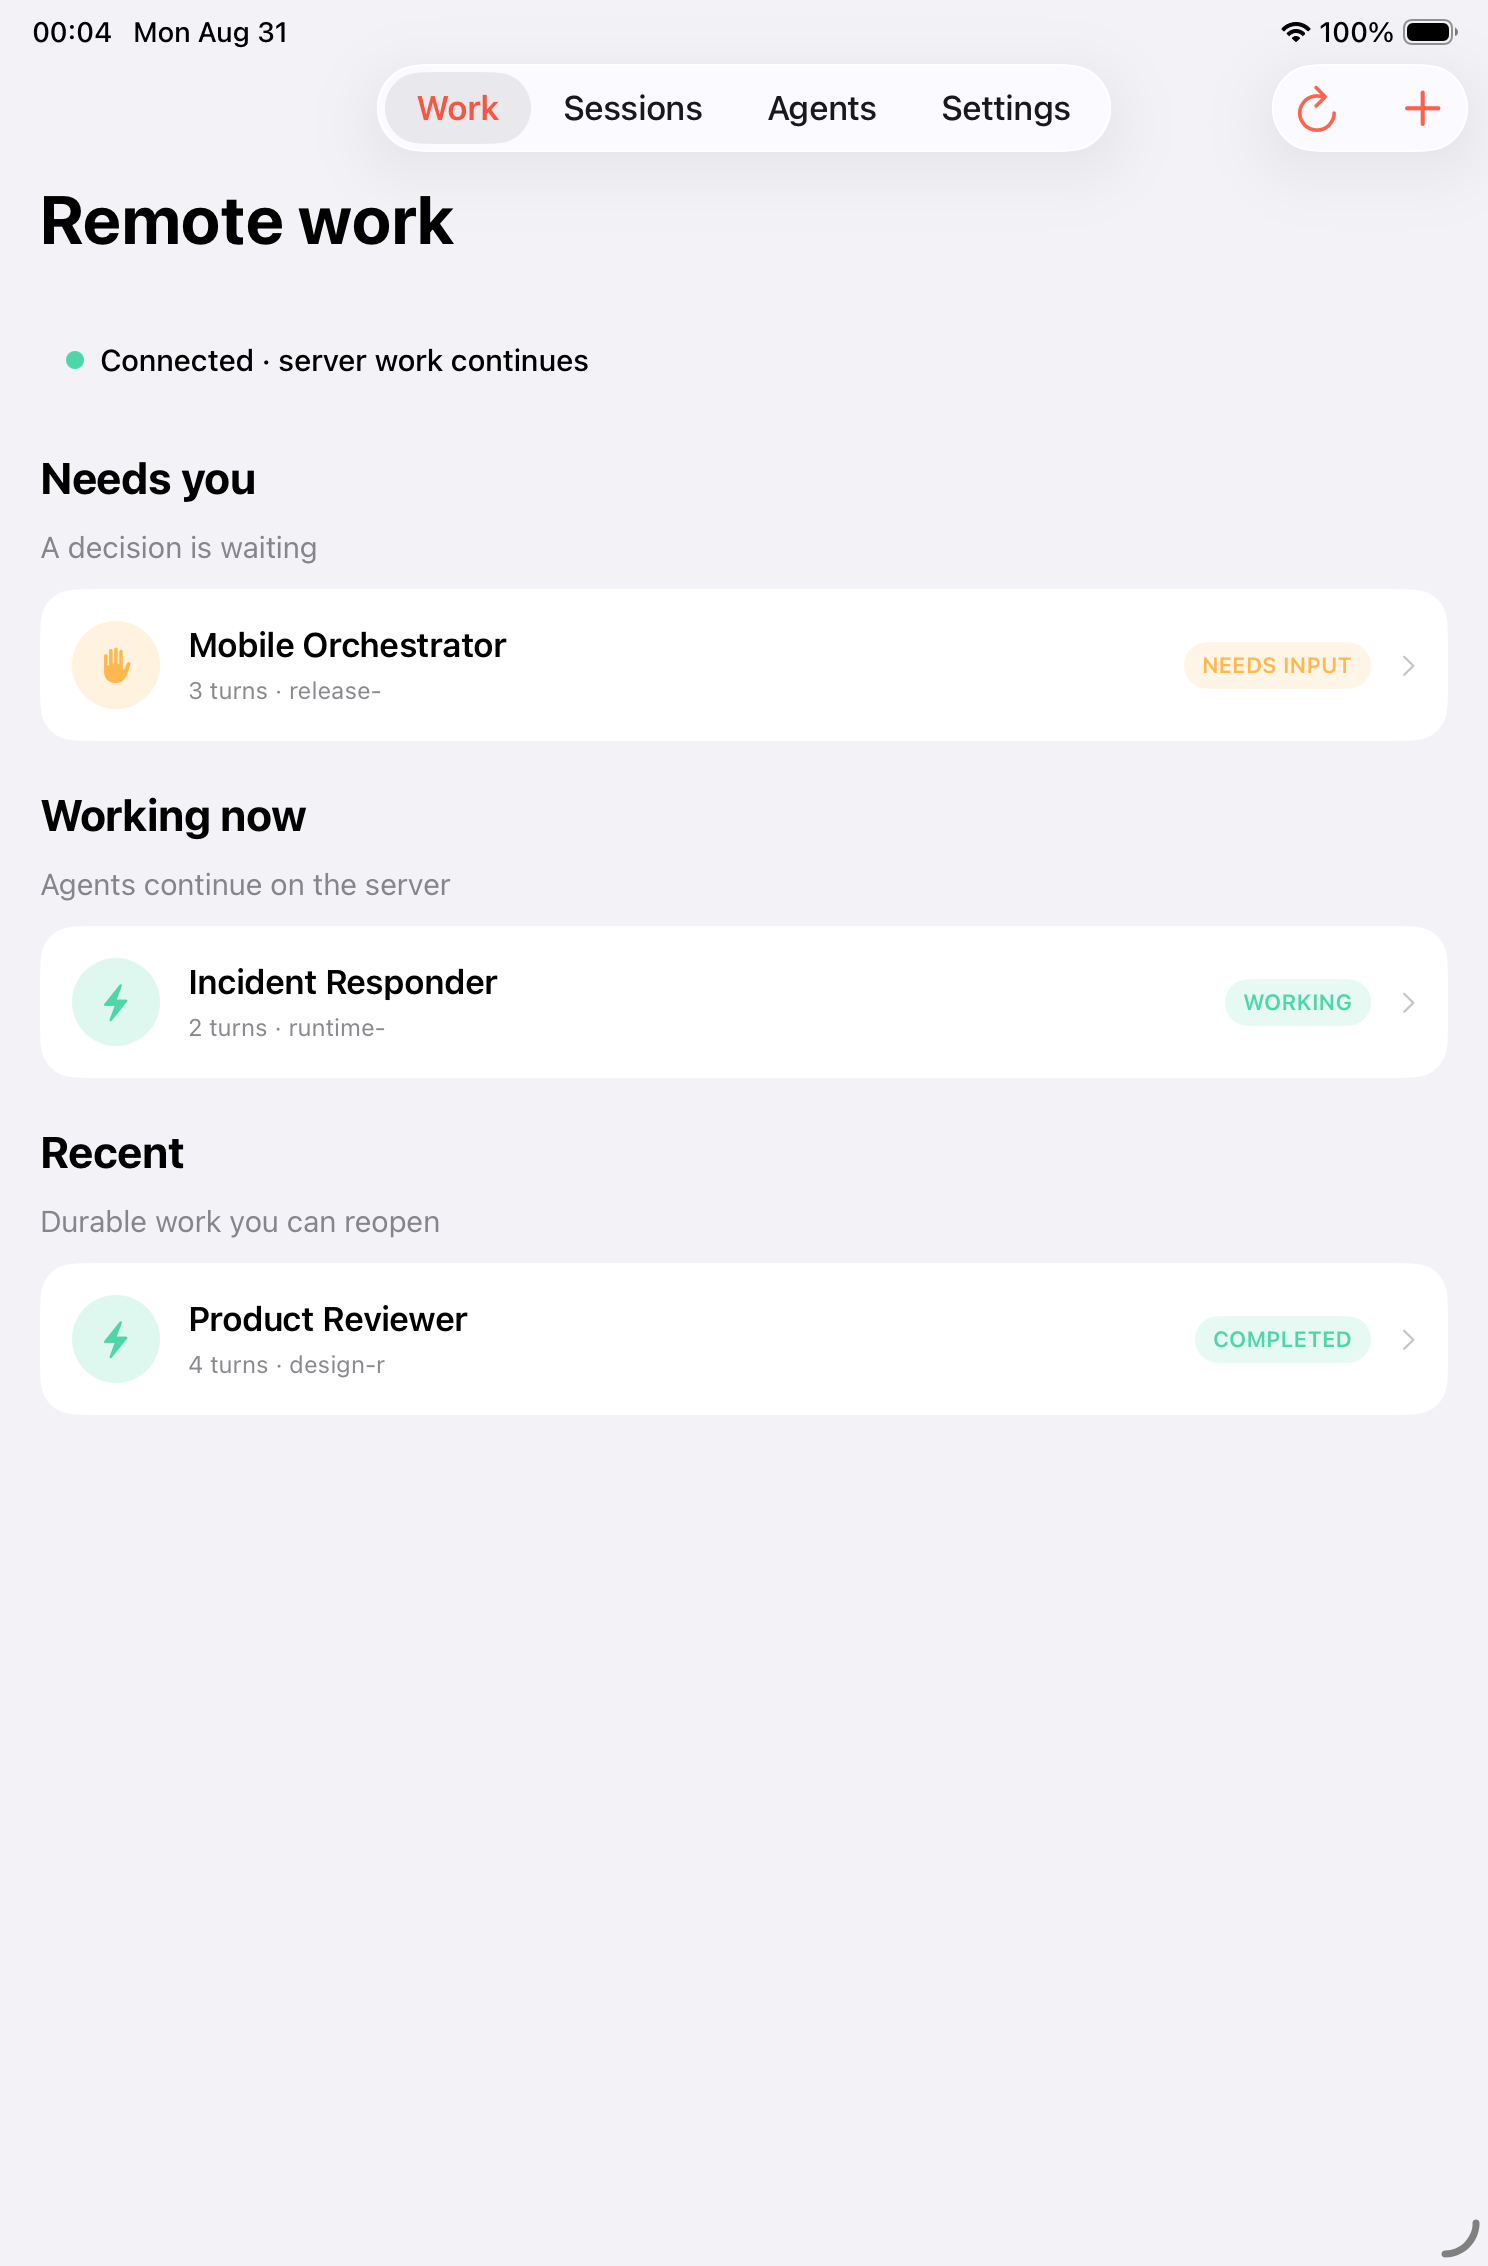
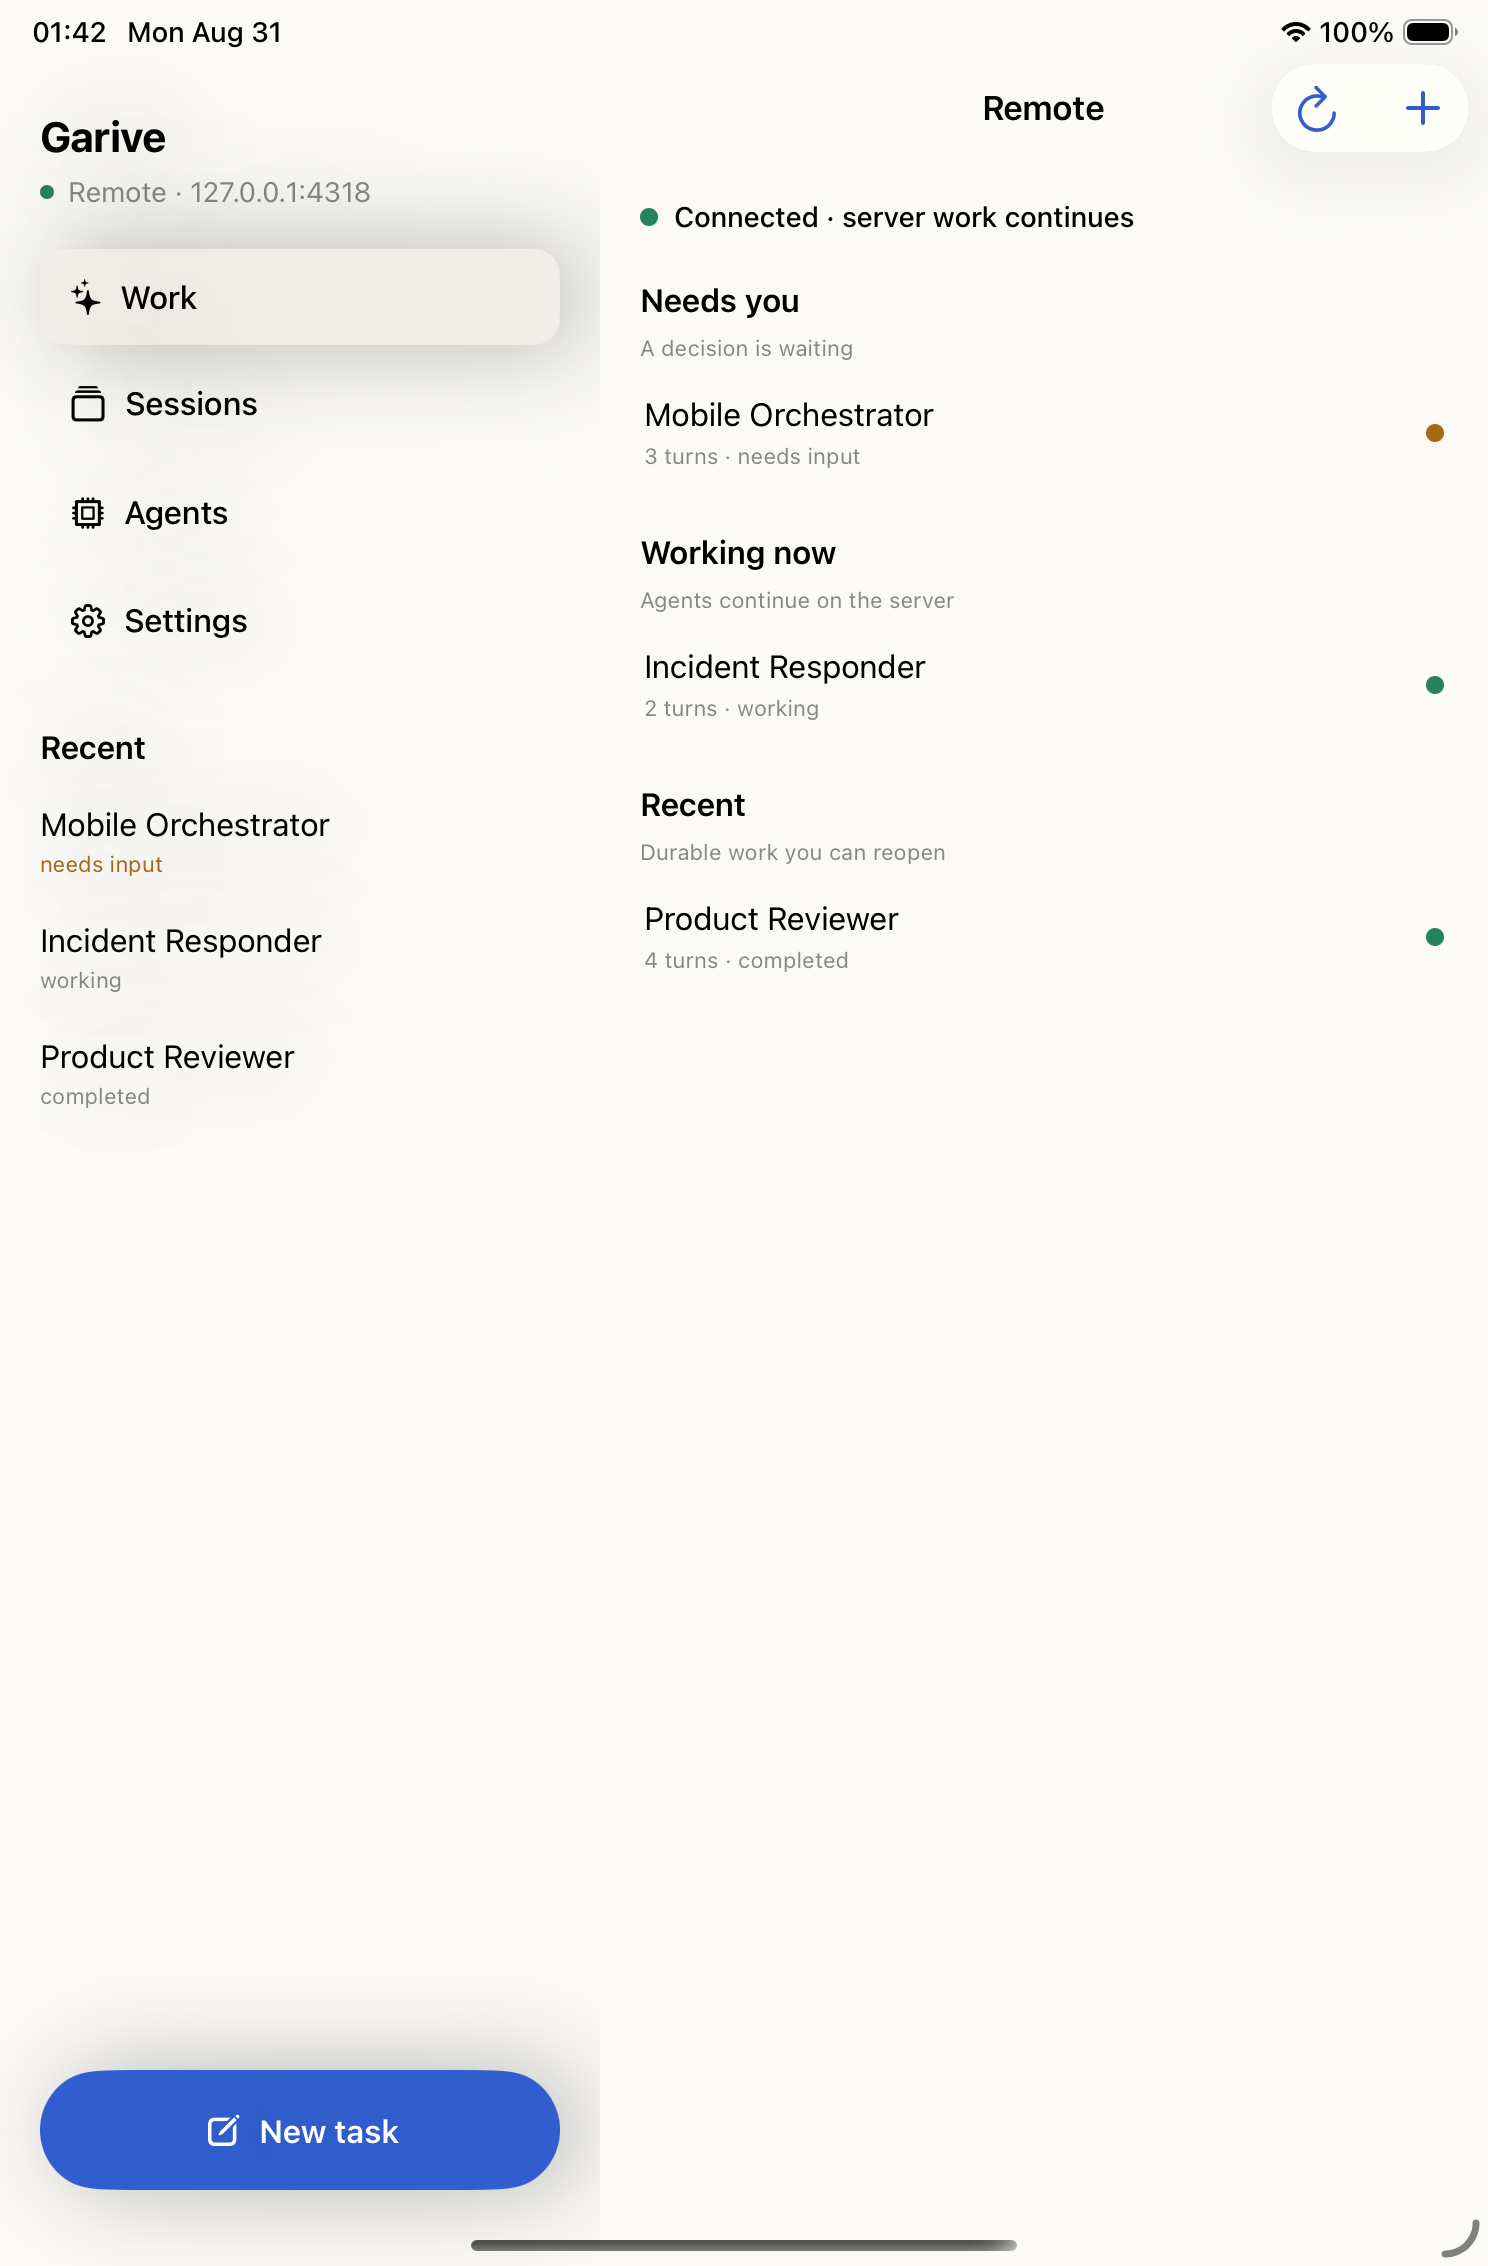
docs: capture private adaptive mobile layouts

diff --git a/spec/STATUS.md b/spec/STATUS.md
@@ -75,7 +75,7 @@ planned without reopening a narrower completed row.
 | A-DESKTOP-WA | Governed Workspaces and artifacts | accepted | accepted | documented | partial | partial | active | Complete remaining accessibility/package matrices. Session detach has an idempotent durable receipt and restart-safe projection; global revoke journals a manifest-v2 tombstone and retries Keychain cleanup after restart. Artifact export now journals only bounded opaque pending IDs, removes the exact interrupted temporary when its directory is next explicitly authorized, preserves unrelated files, and never persists or exposes a path. Immutable receipt-bound Artifact projection, digest-verified preview and one-shot no-overwrite export are implemented, and the real SQLite approval-to-file-to-Artifact flow passes. |
 | A-DESKTOP-VE | Desktop visual, journey and manual evidence | accepted | accepted | documented | partial | missing | active | The deterministic evidence verifier, Chinese manual source, eight-page tagged draft and 18-entry outline are implemented. Unlock a supported Mac, execute the stable 62-row M01–M85 full-function capture matrix on the exact candidate, close visual defects, emit a digest-bound safe screenshot manifest, replace every pending marker, and independently verify PDF/UA plus VoiceOver reading order. Deterministic fixtures prove presentation only, never product behavior. |
 | A-MOBILE | KMP/Android/iOS shells | accepted | accepted | documented | implemented | verified | done | Keep KMP real-loopback transport, XCFramework, Swift, Android SDK 36 APK and API 36 Compose instrumentation gates green; remote physical-device connectivity is not claimed. |
-| A-MOBILE-R | Native remote-work mobile product | accepted | accepted | documented | implemented | partial | active | KMP controller, secure pairing, native Compose/SwiftUI product, installable builds, Gateway/private APNs/FCM wake paths, complete 34-screenshot user guide, real native loopback actions, offline/reconnect, desktop-aligned drawer and goal starters, local Session search/status filters, explicit rendered-conversation sharing, dark/200%-equivalent type, Android landscape and iPad layout evidence are verified locally. Agent details are exact and copyable, task creation preserves the selected definition, and remote submission uses one consistent 16 KiB UI/controller input boundary within a 64 KiB command envelope. Explicit approve/decline, collapsed Activity, multi-Turn append, cancellation and stable dismissible failure banners are directly exercised. Ambiguous mutations persist strict digest-bound identity/input records across process restart, including two-stage create/start recovery, exact retry and warned local abandonment; banner dismissal never clears pending work. Authentication failure returns both native shells to pairing. Settings includes persistent theme, system notification controls, verified host, safe diagnostics and confirmed unpair; Android Keystore and Apple Keychain tests prove credential deletion and device-key rotation. Current local gates include 13 API 36 native tests and 9 Swift tests. Close only with physical iOS/Android Gateway-to-Runtime create/reconnect/background/wake/decision/cancel/revoke evidence. |
+| A-MOBILE-R | Native remote-work mobile product | accepted | accepted | documented | implemented | partial | active | KMP controller, secure pairing, native Compose/SwiftUI product, installable builds, Gateway/private APNs/FCM wake paths, complete 34-screenshot user guide, real native loopback actions, offline/reconnect, desktop-aligned drawer and goal starters, local Session search/status filters, explicit rendered-conversation sharing, dark/200%-equivalent type, Android landscape and persistent-sidebar iPad evidence are verified locally. Ordinary Session rows and accessibility labels hide internal IDs. Agent details are exact and copyable, task creation preserves the selected definition, and remote submission uses one consistent 16 KiB UI/controller input boundary within a 64 KiB command envelope. Explicit approve/decline, collapsed Activity, multi-Turn append, cancellation and stable dismissible failure banners are directly exercised. Ambiguous mutations persist strict digest-bound identity/input records across process restart, including two-stage create/start recovery, exact retry and warned local abandonment; banner dismissal never clears pending work. Authentication failure returns both native shells to pairing. Settings includes persistent theme, system notification controls, verified host, safe diagnostics and confirmed unpair; Android Keystore and Apple Keychain tests prove credential deletion and device-key rotation. Current local gates include 13 API 36 native tests and 9 Swift tests. Close only with physical iOS/Android Gateway-to-Runtime create/reconnect/background/wake/decision/cancel/revoke evidence. |
 | A-UX1-A | Shared product controller | accepted | accepted | documented | implemented | verified | done | Keep exact TypeScript/KMP fixture parity, strict fixture readers, Host projection, correlation, mutation, reconnect, activity, preference and native XCFramework gates green. |
 | A-UX1 | Product client experience | accepted | accepted | partial | partial | partial | active | UX-A, Desktop UX-B and the Web presentation/transport implementation are complete: Desktop and Web mount one React Work UI and controller with semantic visual tokens, truthful optional capacity presentation, exact create/start/cancel/text-or-boolean continuation, bounded preference/pending recovery, lifecycle-priority navigation, keyboard task control, explicit reconnect and shared screenshot presentation. Close the capacity source adapter, UX-C real Runtime same-machine Web E2E, remaining localization and physical-device accessibility matrices; Web captures never substitute for macOS native evidence. |
 | G0 | Go Gateway | accepted | accepted | documented | implemented | verified | done | Keep TLS-only edge composition, one-time device pairing, route/header admission, SSE passthrough, expiry/revocation and race tests green; durable multi-instance grants are a later slice. |

diff --git a/docs/manual/mobile-user-guide.md b/docs/manual/mobile-user-guide.md
@@ -156,7 +156,8 @@ garive://pair?origin=https%3A%2F%2Fagent.example.com&code=...&exp=...&name=...
 
 ![iOS 深色模式与辅助功能超大字体 Work](assets/mobile/ios-08-a11y-dark-work.png)
 
-横屏手机与 iPad 会根据可用空间调整导航，但保持相同的任务优先级和入口：
+横屏手机会压缩工作区但保留抽屉入口；iPad 常规宽度使用常驻 Remote 侧栏与右侧工作区，
+避免把手机单栏机械拉宽。两种布局保持相同的任务优先级、状态语义和入口：
 
 ![Android 横屏 Work](assets/mobile/android-17-landscape-work.png)
 
@@ -209,8 +210,9 @@ Work 按处理优先级分组：
 ![iOS Sessions](assets/mobile/ios-03-sessions.png)
 
 Sessions 提供本地搜索，以及 **All**、**Working**、**Needs you** 和 **Done** 状态筛选。搜索只
-匹配当前已加载的公开 Agent 名称和 Session 标识，不把查询发送给服务端。列表来自服务端持久化
-投影；重新打开任务不会复制 Session，也不会丢失已有 Turn。
+匹配当前已加载的公开 Agent 名称和内部 Session 标识，不把查询发送给服务端；内部标识仅作为
+协议坐标和本地匹配键，默认列表、无障碍标签和截图均不展示。列表来自服务端持久化投影；重新
+打开任务不会复制 Session，也不会丢失已有 Turn。
 
 ![Android Agents](assets/mobile/android-04-agents.png)
 
@@ -396,7 +398,7 @@ xcrun simctl launch booted com.garive.mobile --garive-walkthrough --garive-walkt
 walkthrough Host；Release 构建无法进入该模式。审批、新建、刷新、取消及状态回读均通过真实
 客户端协议执行。深色模式证据同时使用 Android `font_scale=2.0` 和 iOS
 `accessibility-extra-large`；空间不足时导航仍通过抽屉向无障碍服务暴露 Work、Sessions、Agents、
-Settings 语义标签。
+Settings 语义标签；iPad 常规宽度则使用常驻侧栏和独立工作区。
 
 已经自动或本地验证：Gateway route/auth/race 测试、KMP JVM 测试、Android lint/APK/API 36
 界面流程（13 条）、Swift 测试（9 条）、iOS Simulator 构建与界面流程，以及断开/恢复 Host 的

diff --git a/spec/design/mobile-remote-work-client.md b/spec/design/mobile-remote-work-client.md
@@ -156,7 +156,9 @@ the selected timeline before resuming follow. SSE never supplies initial truth.
 
 UI values contain public names, localized keys, stable state, safe error codes,
 durable positions, and bounded display text. Internal Host IDs are retained for
-command correlation but exposed only in a copyable details sheet.
+command correlation and local matching, but are absent from ordinary rows,
+accessibility labels, telemetry, and screenshots. Only Agent definition IDs and
+revisions have an explicit copyable details sheet.
 
 Known presentation states are:
 
@@ -246,6 +248,9 @@ does not retain the local credential.
 - A leading navigation drawer adapts the desktop sidebar: Work, Sessions,
   Agents, Settings, and bounded recent Sessions. The conversation canvas does
   not lose vertical space to a permanent four-item bottom bar.
+- Compact-width phones use the drawer as an overlay. Regular-width iPad uses a
+  persistent approximately 300-point Remote sidebar and an independent detail
+  navigation stack instead of stretching the phone column.
 - `Needs you` rows come first with one clear action and safe context.
 - Running and recent Sessions use flat text-first rows, compact metadata, and
   a redundant status label/mark. Cards are reserved for decisions, composer,
@@ -254,8 +259,9 @@ does not retain the local credential.
 
 ### Sessions
 
-- Search is local over loaded public labels/text only until an admitted server
-  search contract exists.
+- Search is local over loaded public labels/text and internal Session IDs only
+  until an admitted server search contract exists. A matched internal ID is not
+  rendered in the result row or exposed through accessibility semantics.
 - Filter chips are `All`, `Working`, `Needs you`, and `Done`.
 - Rows expose Agent label, state, safe time decoration, and latest public text
   preview when admitted; swipe does not delete because deletion is absent.
